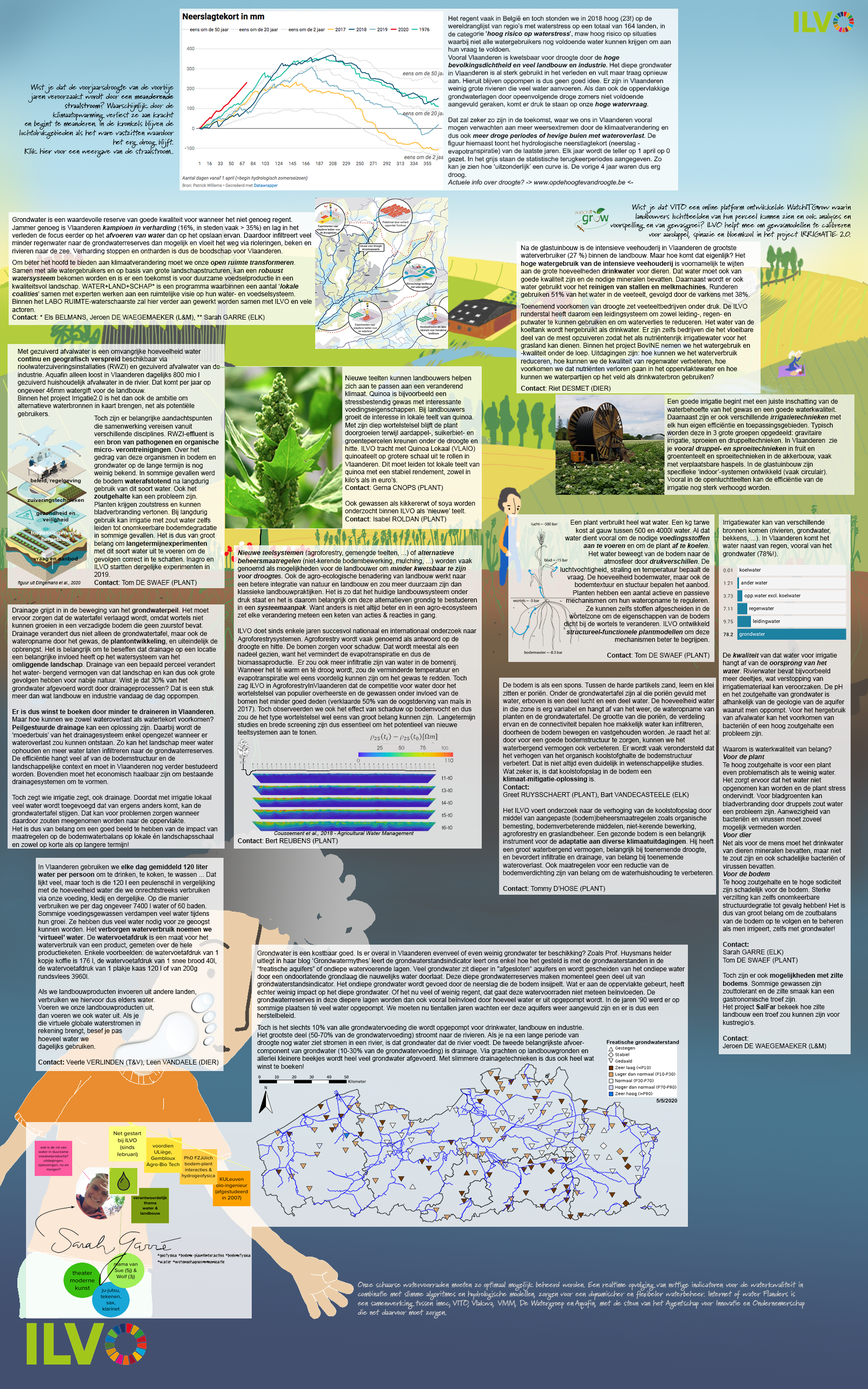
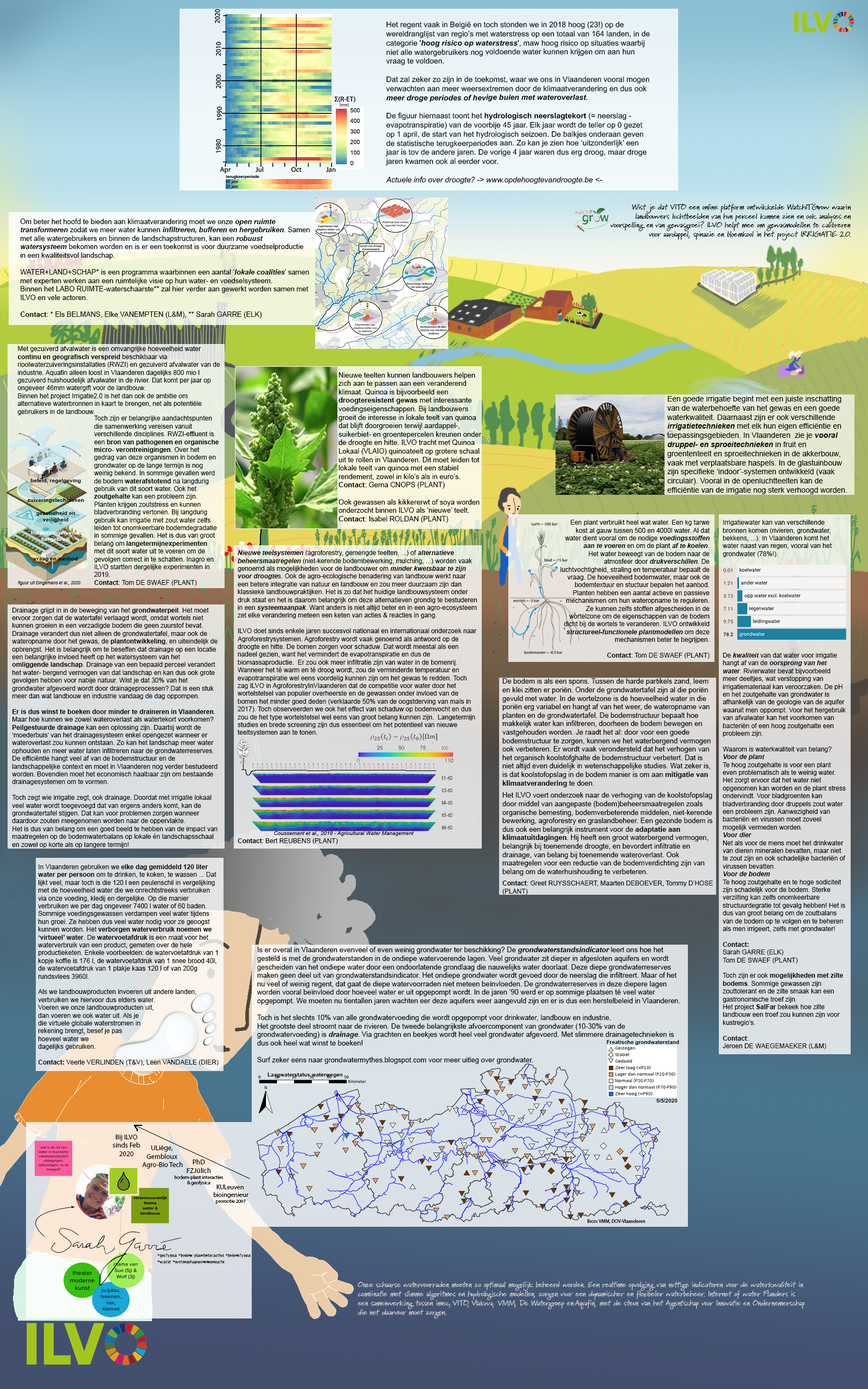
feedback Els verwerkt

diff --git a/context.html b/context.html
@@ -17,8 +17,10 @@
 <h3>Is het droger door de klimaatverandering?</h3>
 <p>Er is nu wetenschappelijke consensus over het feit dat het er in Vlaanderen in de toekomst voor meer weersextremen gaan voorkomen. Er zal dus niet persé minder water uit de lucht vallen, maar dat water zal wél minder mooi verdeeld worden over het jaar. We krijgen dus zowel te maken met nattere als met drogere periodes. We kunnen dus verwachten dat er in de toekomst nog meer druk komt te staan op ons watersysteem, omdat de watervraag tijdens droge periodes nog zal toenemen. De onderstaande figuur toont het hydrologisch neerslagtekort (= neerslag - evapotranspiratie) van de voorbije 45 jaar. Elk jaar wordt de teller op 0 gezet  op 1 april, de start van het hydrologisch seizoen. De balkjes onderaan geven de statistische terugkeerperiodes aan. Zo kan je zien hoe ‘uitzonderlijk’ een jaar is tov de andere jaren. De vorige 4 jaar waren dus erg droog, maar droge jaren kwamen ook al eerder voor.  </p>
 <img src="images/Heatmap_April.png" width="400" alt=""/>  
+	
 	<figcaption>Hydrologisch neerslagtekort voor de voorbije 45 jaar. Grafiek: Tom DE SWAEF, Bron: KMI</figcaption>
-<h3> Wat cijfers over het waterverbruik in Vlaanderen</h3>
+Wil je graag actuele info over droogte? Surf dan zeker eens naar <a href="www.opdehoogtevandroogte.be">opdehoogtevandroogte.be</a>!
+    <h3> Wat cijfers over het waterverbruik in Vlaanderen</h3>
 <p><iframe title="" aria-label="chart" id="datawrapper-chart-8Ek2D" src="https://datawrapper.dwcdn.net/8Ek2D/1/" scrolling="no" frameborder="0" style="width: 0; min-width: 40% !important; border: none;" height="81"></iframe><script type="text/javascript">!function(){"use strict";window.addEventListener("message",(function(a){if(void 0!==a.data["datawrapper-height"])for(var e in a.data["datawrapper-height"]){var t=document.getElementById("datawrapper-chart-"+e)||document.querySelector("iframe[src*='"+e+"']");t&&(t.style.height=a.data["datawrapper-height"][e]+"px")}}))}();
 	</script></p>
 <p><strong>Landbouw </strong>is in Vlaanderen dus zeker niet de grootste verbruiker, maar is wel een belangrijke grondwaterverbruiker. Landbouw en natuur zijn dus ook extra kwetsbaar bij droogte, zeker in de toekomst in het licht van klimaatverandering. Landbouwers rekenden tot nu toe sterk op regenwater aangevuld met oppervlakkig grondwater. Wanneer ze niet voldoende meer kunnen irrigeren door watertekort, komt in vele gevallen een groot deel van hun inkomen op de helling te staan.

diff --git a/waterposter.html b/waterposter.html
@@ -27,7 +27,7 @@
 	<li id="new-crops">
 		<a href="https://www.ilvo.vlaanderen.be/language/nl-BE/NL/Pers-en-media/Alle-media/articleType/ArticleView/articleId/5672/Lokale-teelt-van-quinoa-in-stroomversnelling.aspx#.XtEJcMZcJBw">
 			<span>Kunnen we nu olijven telen in Vlaanderen?</span></a></li>
-	<li id="water-reuse"><a href="water-reuse.html"><span>Zullen wat wat meer water her-gebruiken?</span></a></li>
+	<li id="water-reuse"><a href="water-reuse.html"><span>Zullen we wat meer water her-gebruiken?</span></a></li>
     <li id="drainage"><a href="drainage.html"><span>Moeten we wel zoveel draineren?</span></a></li>
 	<li id="soil-management"><a href="soil.html"><span>Kan de bodem (meer) water opslaan?</span></a></li>
 	<li id="groundwater">
